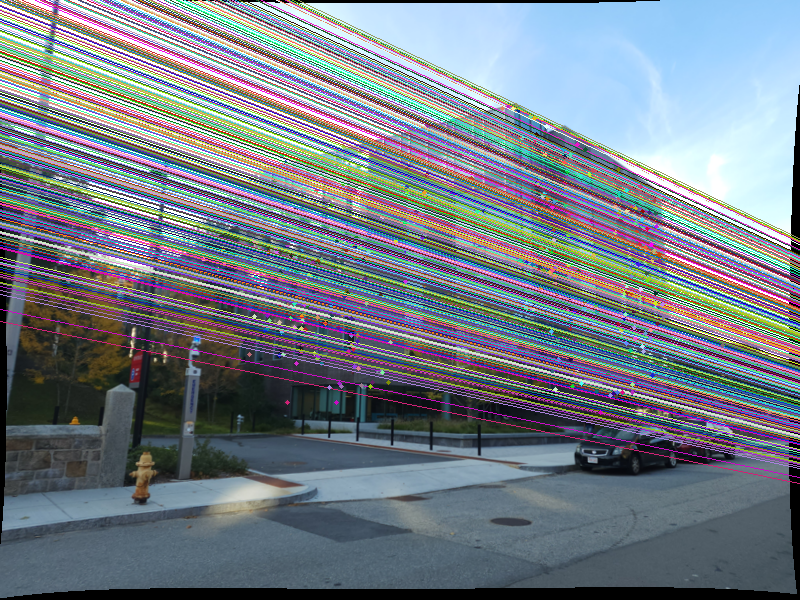
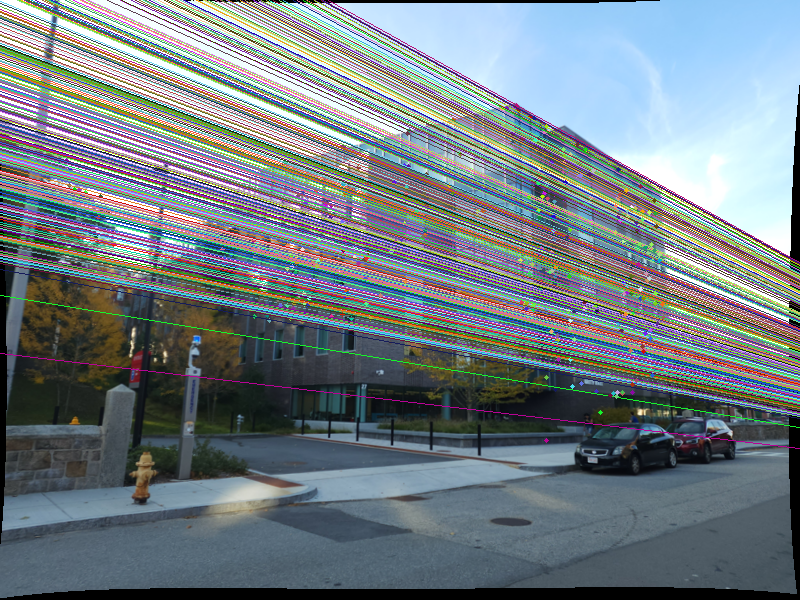
non-linear working

diff --git a/Phase1/main.py b/Phase1/main.py
@@ -11,11 +11,11 @@ from ExtractCameraPose import ExtractCameraPose #,recoverPoseFromFundamental
 from LinearTriangulation import triangulatePoints, LinearTriangulation
 from DisambiguateCameraPose import DisambiguateCameraPose
 from NonlinearTriangulation import init_optimization_variables, cameraCalibrationCasADi
+from aux_functions import show_projection, show_projection_image
 # from LinearPnp import LinearPnP
 # from PnPRANSAC import PnPRANSAC
 # import cv2 as cv2
 # from aux_functions import projection_values
-# from aux_functions import show_projection, show_projection_image
 
 def main():
     # Define inputs of the Algorithm
@@ -89,8 +89,6 @@ def main():
     """
     E = EssentialMatrixFromFundamentalMatrix(K, F)
     print("Essential Matrix: ", E)
-    E_cv, mask = cv2.findEssentialMat(uv_1[:2,:].T[inliers], uv_2[:2,:].T[inliers], K, method=cv2.LMEDS, prob=0.999, threshold=1.0)
-    print("Essential Matrix from cv2: ", E_cv)
 
     """
     Perform Linear Triangulation
@@ -124,8 +122,10 @@ def main():
     Perform Non Linear Triangulation
     """
     # Nonlinear Optimizer for translations, rotation and points in world
+    # Initial values
     x_init = init_optimization_variables(C, R, X.T)
-    x_vector_opt, x_trans_opt, R_quaternion_opt, distortion_opt = (
+    # Points from the optimizer
+    X_opt, C_opt, R_quaternion_opt, distortion_opt = (
         cameraCalibrationCasADi(
             uv_1.T[inliers].T,
             uv_2.T[inliers].T,
@@ -138,13 +138,81 @@ def main():
             X_4N.T,
         )
     )
-    # Points from the optimizer
+    # Homogenization
     X_4xN_casadi = np.vstack(
-        (x_vector_opt, np.ones((1, x_vector_opt.shape[1])))
+        (X_opt, np.ones((1, X_opt.shape[1])))
     )
-    print(X_4xN_casadi.shape)
 
+    # Nonlinear Triangulation visualization
+    show_projection(
+        -R_quaternion_opt.T @ C,
+        R_quaternion_opt,
+        X_4xN_casadi,
+        K,
+        DATA_DIR,
+        data_list[0],
+        n,
+        0,
+        inliers,
+        "Non-linear",
+    )
 
+    # Linear Triangulation visualization
+    show_projection(
+        - R.T @ C,
+        R,
+        X_4N.T,
+        K,
+        DATA_DIR,
+        data_list[0],
+        n,
+        0,
+        inliers,
+        "linear",
+    )
+    ## Show results
+    fig = plt.figure()
+
+    # Add a 3D subplot
+    ax = fig.add_subplot(111)
+    plt.scatter(
+        X_4N.T[0, :],
+        X_4N.T[2, :],
+        s=2,
+        color="green",
+        label="Dataset 3",
+    )
+    plt.scatter(
+        X_4xN_casadi[0, :],
+        X_4xN_casadi[2, :],
+        s=1,
+        color="blue",
+        label="Dataset 3",
+    )
+    plt.xlim(-20, 20)
+    plt.ylim(0, 30)
+    # Labeling the axes and adding a title
+    plt.xlabel("X-axis")
+    plt.ylabel("Y-axis")
+    plt.title("2D Scatter Plot of Two Data Sets")
+    plt.savefig("scatter_plot.pdf", format="pdf")
+
+    print("Type world: ", type(X_4xN_casadi))
+    # Array with values:
+    # [World coordinate, img_id, u, v, img_id, u, v]
+    # stacked one below the other for each point
+    # master_list = np.hstack(
+    #     [
+    #         X_4xN_casadi.T,
+    #         np.ones((inliersA_og.shape[0], 1), dtype=int),
+    #         inliersA_og,
+    #         2 * np.ones((inliersA_og.shape[0], 1), dtype=int),
+    #         inliersB_og,
+    #     ]
+    # )
+    # master_list = master_list.tolist()
+    # print("Master List length: ", len(master_list))
+    # P = [P1, P2]
 
 
 
